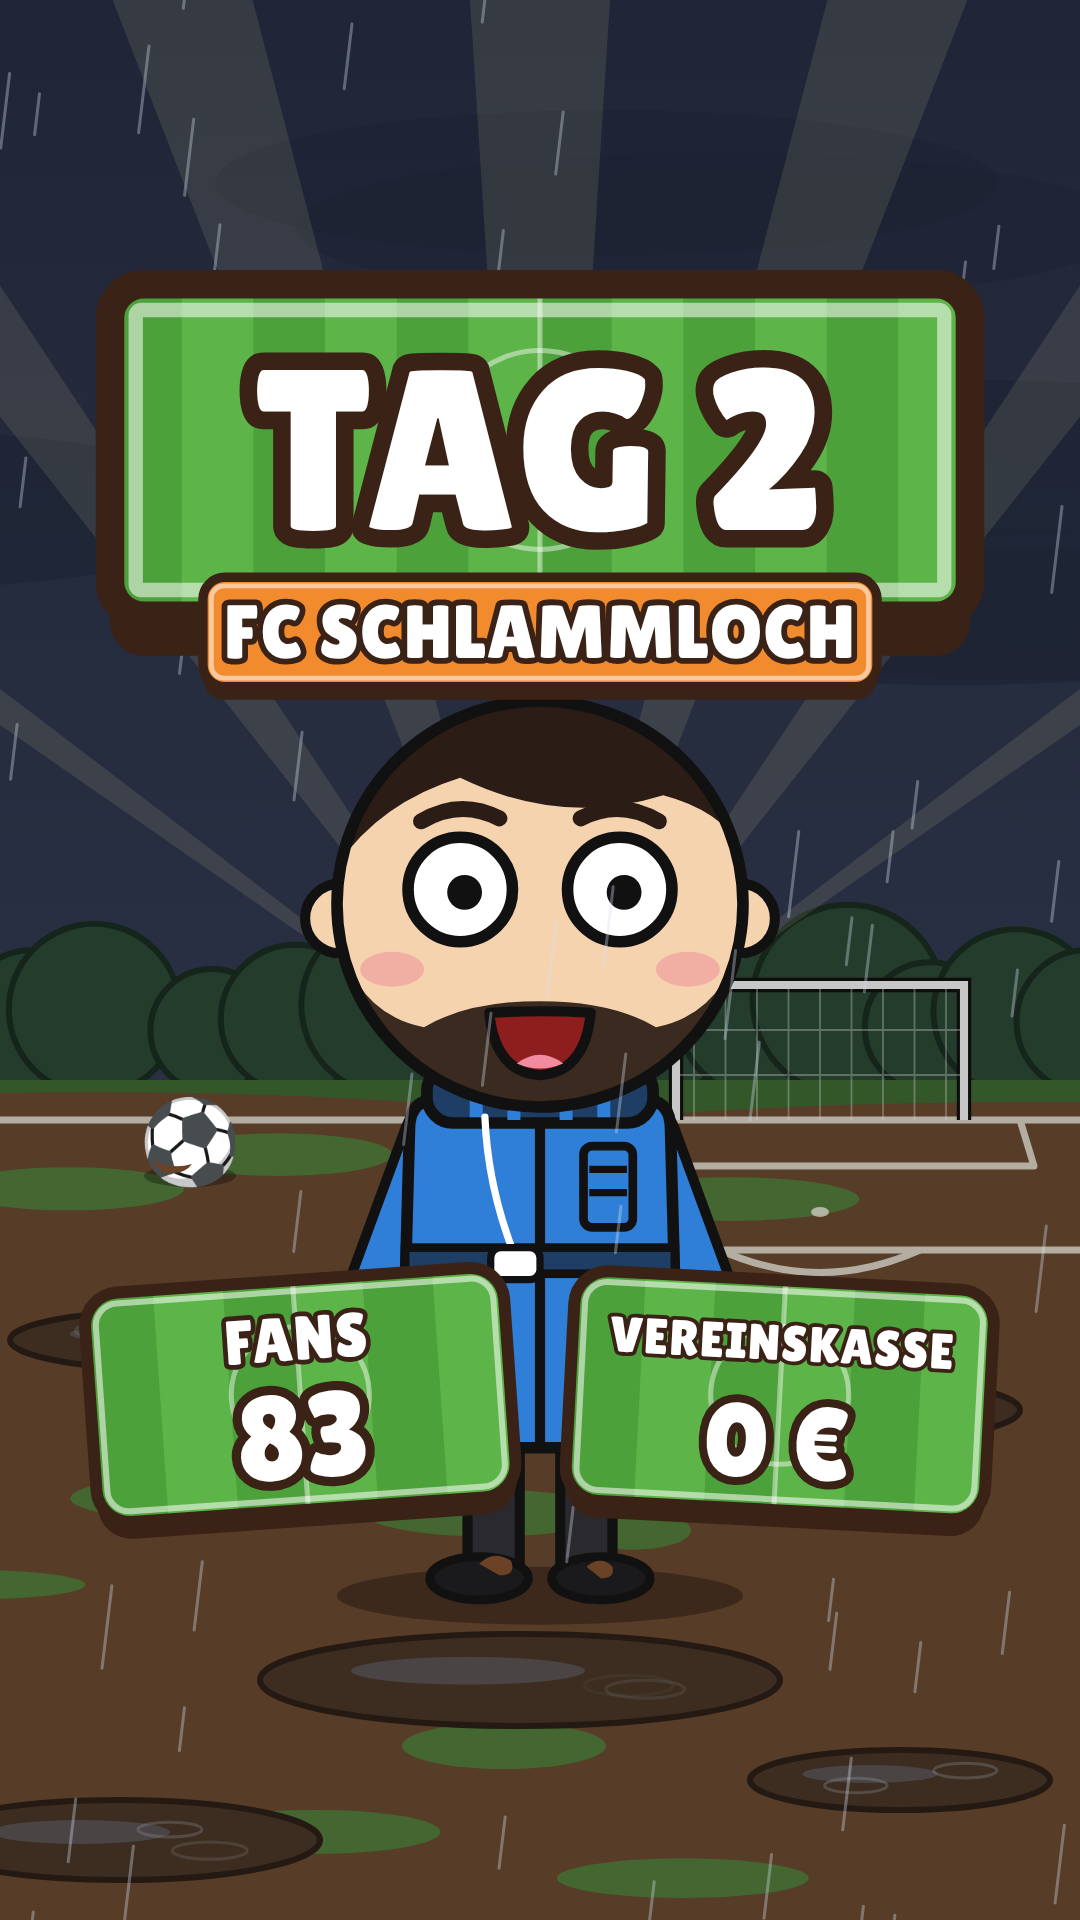
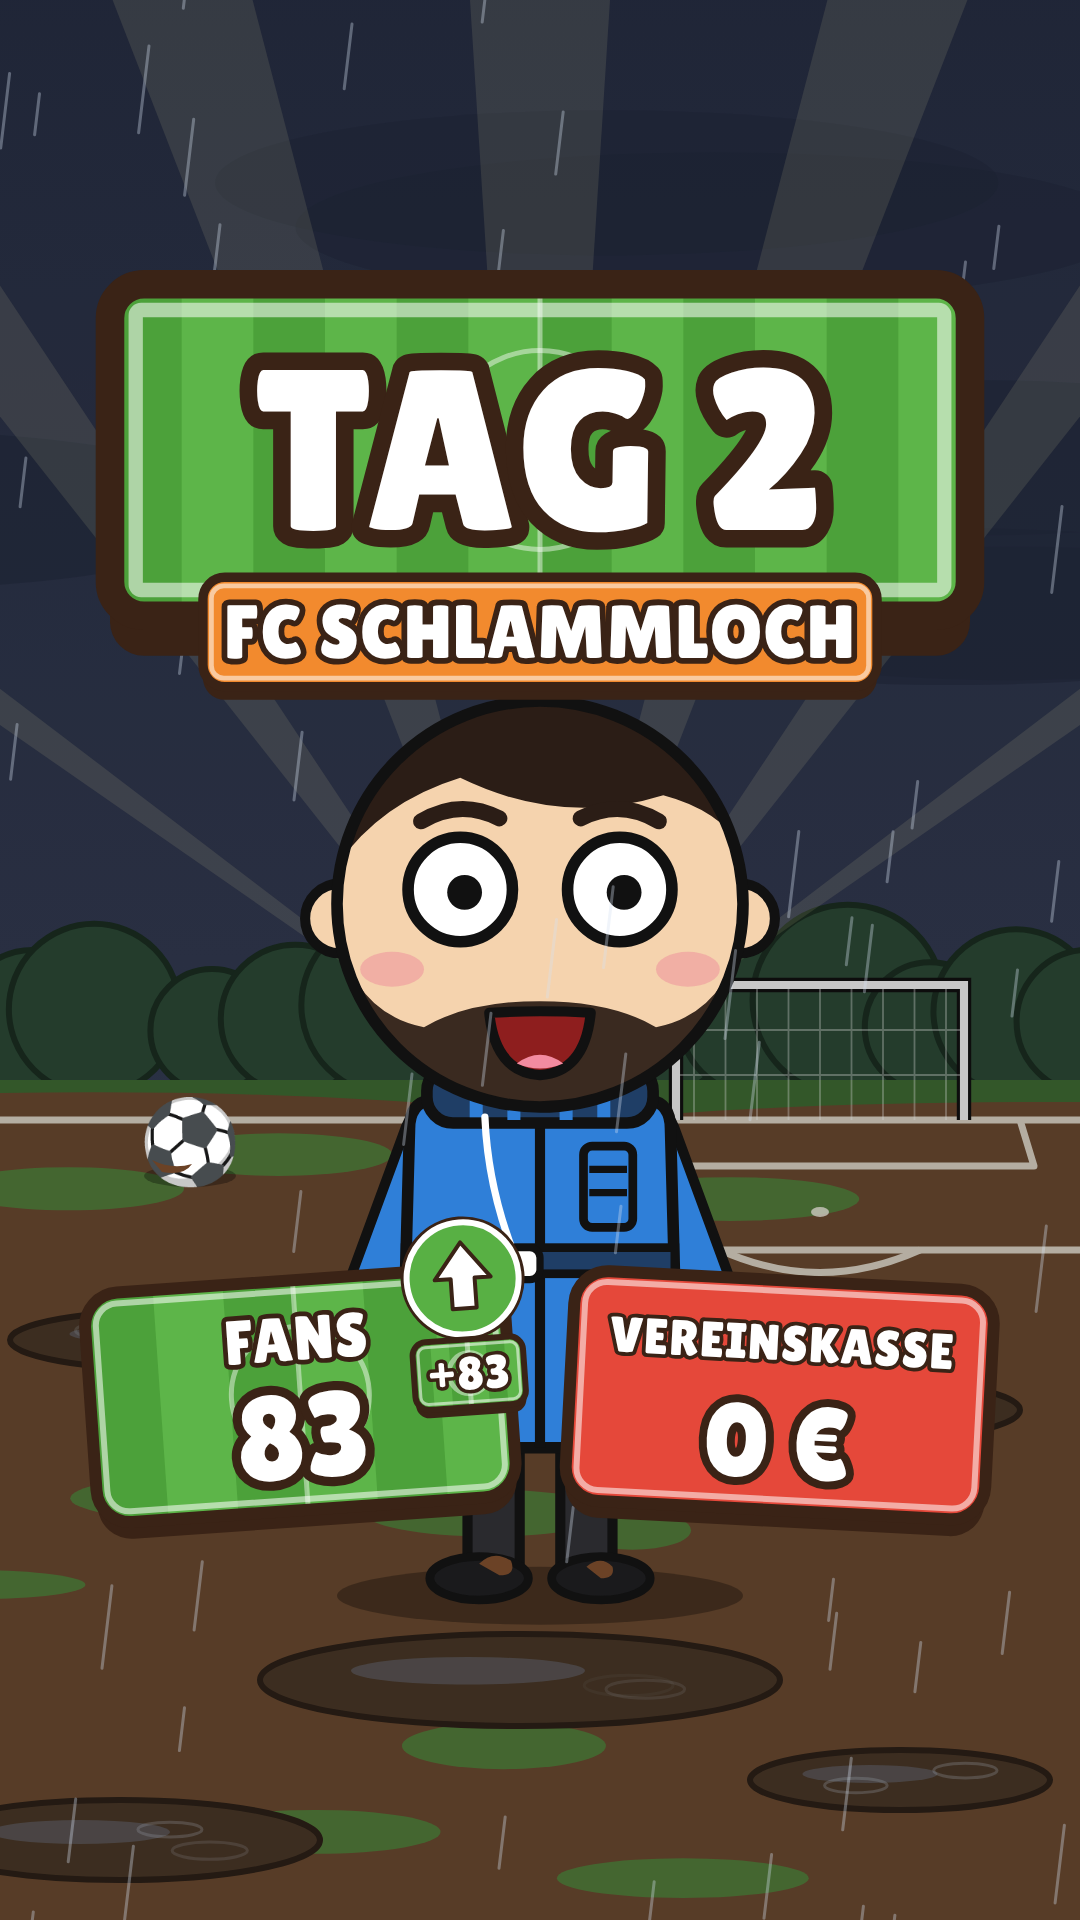
Thumbnail: red cash box at 0 EUR, green up-arrow with fan growth
Claude-Session: https://claude.ai/code/session_01McNdgat1bkabVqQjpt9yqv

Changed region(s): [[0.5194, 0.6562, 0.9167, 0.8125], [0.3667, 0.625, 0.4889, 0.75]]

diff --git a/tiktok/src/thumb.js b/tiktok/src/thumb.js
@@ -2,12 +2,12 @@
 // Gleiches Design jede Folge: grosser TAG-Kasten, Trainer gross, Fans (rot bei 0, sonst gruen), Vereinskasse gruen.
 const {chromium} = require('playwright');
 (async () => {
-  const [,, tag, fans, kasse, out] = process.argv;
+  const [,, tag, fans, kasse, out, delta] = process.argv;
   const b = await chromium.launch();
   const p = await b.newPage({viewport: {width: 1080, height: 1920}});
   await p.goto('file://' + __dirname + '/page.html');
   await p.evaluate(() => { render(0); return document.fonts.ready; });
-  await p.evaluate(([tag, fans, kasse]) => {
+  await p.evaluate(([tag, fans, kasse, delta]) => {
     UID = 0; PID = 0;
     const t = 0.3, f = +fans;
     let s = field(t, 1080, {goalX: 820});
@@ -29,10 +29,16 @@ const {chromium} = require('playwright');
     const fansCol = f === 0 ? 'red' : 'pitch';
     s += `<g transform="rotate(-4 300 1390)">${box(90, 1280, 420, 230, fansCol, 12)}
       ${label(300, 1360, 'FANS', 62, '#fff')}${label(300, 1478, String(f), 120, '#fff')}</g>`;
-    s += `<g transform="rotate(3 775 1390)">${box(570, 1280, 420, 230, 'pitch', 12)}
+    s += `<g transform="rotate(3 775 1390)">${box(570, 1280, 420, 230, +kasse > 0 ? 'pitch' : 'red', 12)}
       ${label(780, 1360, 'VEREINSKASSE', 50, '#fff')}${label(780, 1478, kasse + ' €', 104, '#fff')}</g>`;
+    if (delta) {
+      s += `<g transform="rotate(-4 300 1390)"><g transform="translate(470 1290)">
+        <circle r="62" fill="#3A2316"/><circle r="56" fill="#58B044" stroke="#fff" stroke-width="6"/>
+        <path d="M0 -36 L28 0 L12 0 L12 30 L-12 30 L-12 0 L-28 0 Z" fill="#fff" stroke="#3A2316" stroke-width="4" stroke-linejoin="round"/></g>
+        ${badge(470, 1385, delta, {kind: 'pitch', fs: 36, pad: 16})}</g>`;
+    }
     document.getElementById('root').innerHTML = `<defs><linearGradient id="skyG" x1="0" y1="0" x2="0" y2="1"><stop offset="0" stop-color="#1E2438"/><stop offset="1" stop-color="#46506A"/></linearGradient></defs>${s}`;
-  }, [tag, fans, kasse]);
+  }, [tag, fans, kasse, delta]);
   await p.screenshot({path: out});
   await b.close();
 })();

diff --git a/tiktok/MANNSCHAFT.md b/tiktok/MANNSCHAFT.md
@@ -38,8 +38,8 @@ Vereinsfarben: Blau `#2F7FD8`, Gelb `#FFD31A`. Trikots blau mit gelber Nummer, T
 - Ohne Stadionjubel (die Variante mit Jubel, `gemini_v4`, wird nicht genutzt)
 
 ## Thumbnail-Vorlage (für jede Folge gleich)
-- `node src/thumb.js <Tag> <Fans> <Kasse in €> <ausgabe.png>`, z. B. `node src/thumb.js 2 37 571 tag02_thumbnail.png`
-- Großer Spielfeld-Kasten „TAG X“, darunter orange „⚽ FC SCHLAMMLOCH“, der Trainer groß und lachend, unten zwei Kästen: **FANS** (rot bei 0, sonst grün) und **VEREINSKASSE** (grün, Betrag in €)
+- `node src/thumb.js <Tag> <Fans> <Kasse in €> <ausgabe.png> [+Zuwachs]`, z. B. `node src/thumb.js 2 83 0 tag02_thumbnail.png +83`
+- Großer Spielfeld-Kasten „TAG X“, darunter orange „⚽ FC SCHLAMMLOCH“, der Trainer groß und lachend, unten zwei Kästen: **FANS** (rot bei 0, sonst grün) und **VEREINSKASSE** (grün, bei 0 € rot), optional grüner Pfeil nach oben mit Fan-Zuwachs (z. B. „+83“) am Fans-Kasten
 - Alles Wichtige liegt im mittleren 3:4-Ausschnitt, der im TikTok-Profilraster sichtbar ist
 
 ## Stand nach Tag 1
